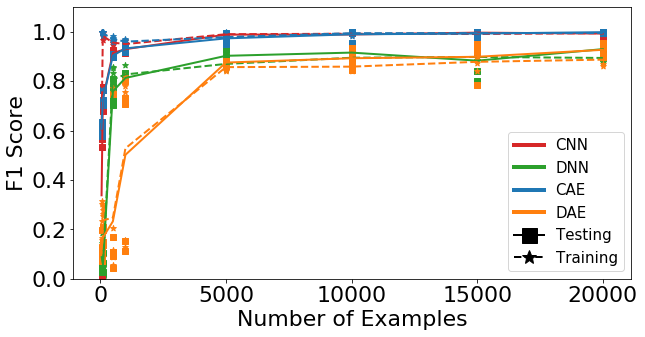
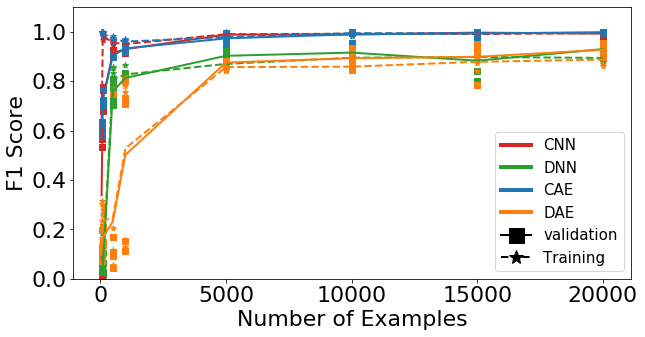
learning curves

Changed region(s): [[0.7752, 0.4748, 0.9612, 0.8012], [0.7752, 0.3858, 0.9302, 0.4451], [0.7752, 0.5341, 0.8062, 0.5935]]

diff --git a/urban_source_search_res_disc.tex b/urban_source_search_res_disc.tex
@@ -11,39 +11,25 @@
 
 \newcommand{\blackdottedline}{\raisebox{2pt}{\tikz{\draw[-,black!40!black,dotted,line width = 1.1pt](0,0) -- (6mm,0);}}}
 
-% \section{Problem Description and Training Dataset Overview}
-
 This chapter applies machine learning algorithms to solve the problem of identifying a radioactive source in an urban environment. This scenario is applicable when performing source interdiction searching cargo containers, vehicles at boarder crossings, or surveying high profile events. 
 % Urban environments present unique challenges to gamma-ray spectroscopy. Background radiation can change over city blocks due to different concentrations of uranium and thorium in building materials. Sources may be purposely shielded by unknown amounts of material to obscure their gamma-ray signal.
 
 
 
-
-
-% \section{Data Augmentation Implementation}
-
-% Because simulating a dataset with sufficient combinations of available data augmentation - seen in Tables \ref{table:all_fixed_simulation_parameters} and \ref{table:all_variable_simulation_parameters} - online data augmentation techniques are employed. Online data augmentation has the benefit of implicitly regularizing the models.
-
-% Steps in the data augmentation process are:
-% \begin{enumerate}
-%   \item Randomly choose a background template with the same FWHM as the source template
-%   \item Rebin source and background template with a random calibration
-%   \item Apply the LLD to both templates
-%   \item Normalize both templates by the sum of their respective counts 
-%   \item Scale both signals by their respective total counts
-%   \begin{itemize}
-%      \item Counts defined by randomly chosen background counts per second, integration time, and signal to background ratio
-%   \end{itemize}
-%   \item Add both signals 
-%   \item Poisson sample the resulting signal
-% \end{enumerate}
-
-
 \section{Learning Curve Analysis}
 
-In this section we use learning curves to determine a sufficient number of training dataset examples for the simple and complete networks. To create the learning curves, a dataset of 3 x 10$^{8}$ spectra (1 x 10$^{4}$ examples per class) were generated for both the simple and complete dataset parameters (Tables \ref{table:hyperparameter_dataset_easy_parameters} and \ref{table:hyperparameter_dataset_full_parameters}). For each number of training examples, five random subsets of the total spectra were used as training sets. Stratified sampling was used to keep the number of examples per class in each subset as equal as possible. A separate holdout dataset of 300 total spectra (10 examples per class) was used as a testing dataset set. Training was ended after an early stopping condition with a patience of 100 epochs was reached.
+In this section we use learning curves to determine a sufficient number of training dataset examples for the simple and complete networks. Two separate datasets were constructed for this chapter: one using simple dataset parameters, Tables \ref{table:hyperparameter_dataset_easy_parameters}, and the other using complete dataset parameters from Table \ref{table:hyperparameter_dataset_full_parameters}. The datasets include isotopes from the ANSI N42-34-2006 standard, shown in Section \ref{datasets_used_hyperparam_search}. Each dataset contains 1 x 10$^{4}$ randomly generated spectra for each isotope. These datasets will be referred to as the simple and complete master dataset.
 
-Figure \ref{fig:learning_curves_easy} shows the learning curves for each simple model's F1 score asymptotes to one past 5000 examples. This shows that each model is well suited to generalize within the simple parameter space. Training was rerun on one CAE model at 1 x 10$^{4}$ and 2 x 10$^{4}$ samples due to the error not decreasing during training. This can be attributed to a poor CAE pretraining.
+Different sized training datasets were sampled from both master datasets using stratified sampling without replacement. Stratified sampling keeps the number of isotopes in each sampled subset as equal as possible. Training dataset sizes included 50, 100, 500, 1000, 5000, 10000, 15000, and 20000. For each training dataset size, five sampled subsets of a master dataset were used as training datasets.Figure \ref{fig:learning_curve_training_diagram}. ANN's were trained using these dataset. A separate holdout validation dataset of 300 spectra (10 examples per class) was used to end training when its F1 score did not improve using an early stopping patience of 10 epochs.
+
+\begin{figure}[H]
+	\centering
+	\includegraphics[trim=0 70 160 0,clip,width=1.0\linewidth]{images/learning_curve_training_diagram}
+	\caption{Training process used to train models for the learning curves.}
+	\label{fig:learning_curve_training_diagram}
+\end{figure}
+
+The validation dataset's F1 score was used to construct learning curves for each model. Figure \ref{fig:learning_curves_easy} shows the learning curves for each simple model's F1 score asymptotes to one past 5000 examples. This shows that each model is well suited to generalize within the simple parameter space. Training was rerun on one CAE model at 1 x 10$^{4}$ and 2 x 10$^{4}$ samples due to the error not decreasing during training. This can be attributed to a poor CAE pretraining.
 
 
 \begin{figure}[H]
@@ -54,10 +40,9 @@ Figure \ref{fig:learning_curves_easy} shows the learning curves for each simple 
 \end{figure}
 
 
-The testing set error curves in Figure \ref{fig:learning_curves_full} are less steep than those in the simple learning curve plot. This shows that the patterns in the complete dataset are more complex and models require more examples to generalize to unseen complete dataset examples. The learning curve for the complete model shows the CNN and DNN converging to near one after 5 x 10$^{3}$ and 1.5 x 10$^{4}$ examples. The testing and training F1 score curves for the CNN and DNN also show low-bias and low-variance, indicating the hyperparameter search found appropriate values for the complexity of the complete dataset.
+The validation dataset error curves in Figure \ref{fig:learning_curves_full} are less steep than those in the simple learning curve plot. This shows that the patterns in the complete dataset are more complex and models require more examples to generalize to unseen complete dataset examples. The learning curve for the complete model shows the CNN and DNN converging to near one after 5 x 10$^{3}$ and 1.5 x 10$^{4}$ examples. The testing and training F1 score curves for the CNN and DNN also show low-bias and low-variance, indicating the hyperparameter search found appropriate values for the complexity of the complete dataset.
 
 The training errors for the autoencoder models do not saturate as quickly as the training errors for the CNN and DNN. This shows that either the pretraining has a large effect on learning or the pretrained models need regularization during fine-tuning. Both the DAE and CAE saturate past 1 x 10$^{4}$ examples. Similar to the simple training curve, training was rerun on one CAE model at 1.5 x 10$^{4}$ and 2 x 10$^{4}$.
-
 
 
 \begin{figure}[H]
@@ -71,7 +56,7 @@ The training errors for the autoencoder models do not saturate as quickly as the
 
 \section{Generalization Performance Evaluation}
 
-In this section we analyze the generalization performance of each machine learning model and the simple and complete training datasets. To quantify performance on a range of spectral qualities, the F1-scores are averaged for each model trained on a dataset of 10000 examples. Testing data are simulated over integration times log-uniformly sampled from one seconds to an hour and signal to background ratios of 0.1 and 0.5. Default simulation parameters are shown in Table \ref{table:default_sim_params}. Changes to these defaults are indicated for each generalization experiment. To reduce variance, ten spectra are generated for each isotope and simulated parameter combination. Models trained on the simple and complete datasets are referred to as simple models and complete models.
+In this section we analyze the generalization performance of each machine learning model and the simple and complete training datasets. To quantify performance on a range of spectral qualities, the F1-scores are averaged for each model trained on a dataset of 10000 examples. Testing data are simulated over integration times log-uniformly sampled from one second to an hour and signal to background ratios of 0.1 and 0.5. Default simulation parameters are shown in Table \ref{table:default_sim_params}. Changes to these defaults are indicated for each generalization experiment. To reduce variance, ten spectra are generated for each isotope and simulated parameter combination. Models trained on the simple and complete datasets are referred to as simple models and complete models.
 
 \begin{table}[H]
 \centering
@@ -172,7 +157,7 @@ Models trained on the simple dataset did not generalize well to low signal-to-ba
 
 In this section we analyze the generalization performance of each network on changes in source-detector standoff distance. This tests if each model is sensitive to larger changes in the Compton continuum compared to those associated with changes in source-detector height. An example of these changes can be seen in Figure \ref{fig:sim_spectra_distance_comparison}.
 
-As seen in Figure \ref{fig:generalization_dist_fixeddataset}, general trends seen in the source-detector height generalization, such as superior performance of the CNN and the poor DAE encoding, are observed in source-detector distance generalization. Changing the source-detector distance changes performance more noticeably compared to changes in standoff distance. This was especially noticeable for the shorter standoff distance of 50 cm. At this distance, the peak-to-total ratio increases significantly, which emphasizes the peak information while reducing the Compton continuum. At the lower signal-to-background ratio the closer standoff distance improves performance in each network while at the higher signal-to-background ratio this trend is reversed. A higher peak-to-total ratio makes identification easier for algorithms that focus on photopeaks. The reduced performance of each model on high peak-to-total ratio spectra on the higher signal-to-background data shows performance expected from a template matching or pattern recognition algorithm.
+As seen in Figure \ref{fig:generalization_dist_fixeddataset}, general trends seen in the source-detector height generalization, such as superior performance of the CNN and the poor DAE encoding, are observed in source-detector distance generalization. Changing the source-detector distance changes performance more noticeably compared to changes in standoff distance. This was especially noticeable for the shorter standoff distance of 50 cm. At this distance, the peak-to-total ratio increases significantly, which emphasizes the peak information while reducing the Compton continuum. At the lower signal-to-background ratio, the closer standoff distance improves performance in each network while at the higher signal-to-background ratio this trend is reversed. A higher peak-to-total ratio makes identification easier for algorithms that focus on photopeaks. The reduced performance of each model on high peak-to-total ratio spectra on the higher signal-to-background data shows performance expected from a template matching or pattern recognition algorithm.
 % that the models are acting more similarly to a  than a ROI approach. 
 
 
@@ -220,9 +205,7 @@ As seen in Figure \ref{fig:generalization_dist_fixeddataset}, general trends see
 
 \subsection{Generalization Dependence on Resolution}
 
-In this section we analyze the generalization performance of each network on changes in detector resolution. An example of these changes can be seen in Figure \ref{fig:sim_spectra_FWHM_comparison}.
-
-Changes in resolution do not significantly impact performance of the models. General trends are similar to distance and height generalization.
+In this section we analyze the generalization performance of each network on changes in detector resolution. An example of these changes can be seen in Figure \ref{fig:sim_spectra_FWHM_comparison}. Changes in resolution do not significantly impact performance of the models. General trends are similar to distance and height generalization.
 
 
 \begin{figure}[H]
@@ -269,7 +252,7 @@ Changes in resolution do not significantly impact performance of the models. Gen
 
 In this section we analyze the generalization performance of each network on changes in shielding. Spectra were simulated with iron shielding that shields 40\%, 60\%, and 80\% of the intensity of a 200 keV gamma-ray.
 
-As seen previously, simple models do not generalize to the lower signal-to-background spectra. Simple models, which only uses unshielded and 20\% shielded templates, do generalize to other shielding thicknesses in higher signal-to-background spectra. Each simple model achieves and F1 score above 80\% after 2000 seconds for the 40\% attenuated spectra. Only the CAE achieves similar performance for the 40\% attenuated spectra. All other models and shielding settings attain F1 scores between 50\% and 75\%.
+As seen previously, simple models do not generalize to the lower signal-to-background spectra. Simple models, which only use unshielded and 20\% shielded templates, do generalize to other shielding thicknesses in higher signal-to-background spectra. Each simple model achieves an F1 score above 80\% after 2000 seconds for the 40\% attenuated spectra. Only the CAE achieves similar performance for the 40\% attenuated spectra. All other models and shielding settings attain F1 scores between 50\% and 75\%.
 
 The complete models perform better in the low signal-to-background spectra. Both complete convolutional models perform comparatively and outperform the complete dense models. Each network's performance on 40\% and 60\% attenuated spectra were comparable, while the 80\% attenuation reduced performance more significantly. Similar trends are seen in higher signal-to-background spectra. 
 
@@ -365,7 +348,7 @@ Performance for the data augmented models on data simulated with complete parame
 
 \subsection{Generalization Dependence on Gain}
 
-In this section we analyze the generalization performance of each network on changes in calibration. Spectra were simulated with relative calibration gains of 0.8, 1.0, and 1.2. The 1.0 gain setting calibrates the 1024$^{th}$ channel of the spectrum to 3 Mev.
+In this section we analyze the generalization performance of each network on changes in calibration. Spectra were simulated with relative calibration gains of 0.8, 1.0, and 1.2. The 1.0 gain setting calibrates the 1024$^{th}$ channel of the spectrum to 3 MeV.
 
 At the higher signal-to-background ratio the simple models begin generalizing to the 1.2 relative gain while performing poorly on the 0.8 relative gain. The lower relative gain has the potential to push spectral features into the LLD, removing them from the signal. Because the simple dataset parameters never obscure these features, the simple models cannot correctly identify spectra without them.
 
@@ -464,7 +447,7 @@ The complete models performed better with changing gain, but still struggled wit
 
 \subsection{Results on Measured Spectra}
 
-This section shows performance over integration time for different calibration settings and shielding amounts in real gamma-ray spectra. Sources include $^{137}$Cs, $^{60}$Co, $^{133}$Ba, and $^{152}$Eu. A diagram of the laboratory setup used for these measurements is shown in Figure \ref{fig:shielding_measurment_diagram}. The radioactive sources, 1 inch diameter by 1/8 inch thick plastic disks containing radioactive material, were measured on a wooden desk approximately one meter from the nearest wall to reduce radiation backscatter. We used a 2x2 inch Ortec NaI detector to measure the sources. Blocks of shielding material were added for the measurements in Section \ref{real_shielding_performance}. Measurements in Section \ref{real_calibration_performance} used no shielding material.
+This section shows performance over integration time for different calibration settings and shielding amounts in real gamma-ray spectra. Sources include $^{137}$Cs, $^{60}$Co, $^{133}$Ba, and $^{152}$Eu. A diagram of the laboratory setup used for these measurements is shown in Figure \ref{fig:shielding_measurment_diagram}. The radioactive sources, 1 inch diameter by 1/8 inch thick plastic disks containing $\mu$Ci quantities of radioactive material, were measured on a wooden desk approximately one meter from the nearest wall to reduce radiation backscatter. We used a 2x2 inch Ortec NaI detector to measure the sources. We measured the source-detector from the source disk's face to the detector's face. Blocks of shielding material were added for the measurements in Section \ref{real_shielding_performance}. Measurements in Section \ref{real_calibration_performance} used no shielding material. 
 
 \begin{figure}[H]
 	\centering
@@ -476,7 +459,7 @@ This section shows performance over integration time for different calibration s
 
 \subsubsection{Asymptotic Model Performance on Changing Voltage} \label{real_calibration_performance}
 
-To test the dependence of performance of each model to changes in calibration, spectra with different voltages were recorded and the posterior probability of the measured isotope found by each model is observed over integration time. The detector's calibrations was varied by changing the PMT voltage to 720 V, 745 V, 770 V, and 795 V. The detector calibration of 770 V calibrated the detector's 1024$^{th}$ channel to 3 MeV. Reported relative gain settings are calibrated to the 662 keV photopeak defining the 770 V calibration as the reference. Sources measured include $\mu$Ci level $^{137}$Cs, $^{60}$Co, $^{152}$Eu, and $^{133}$Ba. The standoff distance of each source was adjusted to keep the counts-per-second from the source equal-to and one-half-of the counts-per-second from background.
+To test the dependence of performance of each model to changes in calibration, spectra with different voltages were recorded and the posterior probability of the measured isotope found by each model is observed over integration time. The detector's calibrations was varied by changing the PMT voltage to 720 V, 745 V, 770 V, and 795 V. The detector calibration of 770 V calibrated the detector's 1024$^{th}$ channel to 3 MeV. Reported relative gain settings are calibrated to the 662 keV photopeak defining the 770 V calibration as the reference. Sources measured include $\mu$Ci level $^{137}$Cs, $^{60}$Co, $^{152}$Eu, and $^{133}$Ba. The source-detector distance of each source was adjusted to keep the counts-per-second from the source equal-to and one-half-of the counts-per-second from background.
 
 The figures in \ref{fig:gain_cs137} show trained ANN performance when identifying $^{137}$Cs. Models trained on the simple dataset, Figures \ref{fig:realspectra-cal-cs137-0-easy} and \ref{fig:realspectra-cal-cs137-1-easy}, did not generalize well to calibrations outside the training set. When trained on both the simple and complete dataset, The CNN performed well. Both CNNs identified $^{137}$Cs with a 100\% posterior probability after 50 seconds in both signal-to-background ratios.% The simple DNN and DAE achieve a posterior probability of above 50 \% after 60 seconds of integration time show some potential to generalize to calibrations outside the training set.
 

diff --git a/model_choices_hyperparameter_results.tex b/model_choices_hyperparameter_results.tex
@@ -89,7 +89,7 @@ Calibration - Gain \\ \hline
 % \end{table}
 
 
-\section{Datasets Used for the Hyperparameter Search}
+\section{Datasets Used for the Hyperparameter Search} \label{datasets_used_hyperparam_search}
 
 To investigate which parameters affect generalization performance, networks were trained using a simple and complete set of template simulation parameters. The parameters used for the simplified dataset are shown in Table \ref{table:hyperparameter_dataset_easy_parameters} and parameters used for the complete dataset are shown in Table \ref{table:hyperparameter_dataset_full_parameters}. Both datasets are comprised of pure background templates and the following isotopes from ANSI N42-34-2006 \cite{ANSI}: $^{241}$Am, $^{133}$Ba, $^{57}$Co, $^{60}$Co, $^{51}$Cr, $^{137}$Cs, $^{152}$Eu, $^{67}$Ga, $^{123}$I, $^{125}$I, $^{131}$I, $^{111}$In, $^{192}$Ir, $^{177m}$Lu, $^{99}$Mo, $^{237}$Np, $^{103}$Pd, $^{239}$Pu, $^{240}$Pu, $^{226}$Ra, $^{75}$Se, $^{153}$Sm, $^{99m}$Tc, $^{201}$Tl, $^{204}$Tl, $^{233}$U, $^{235}$U, $^{238}$U, and $^{133}$Xe.
 
